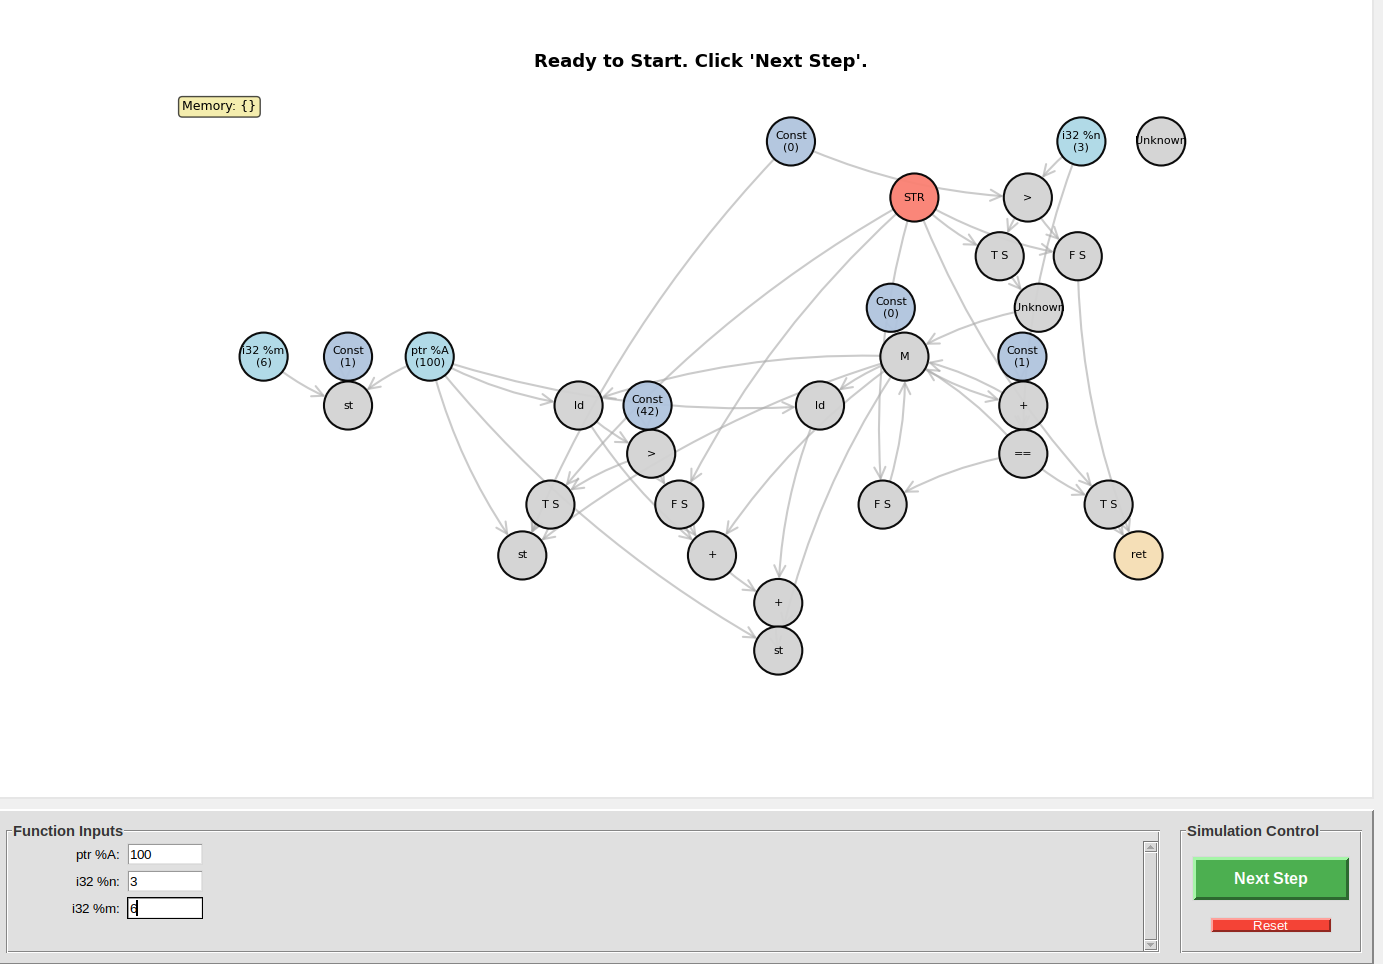
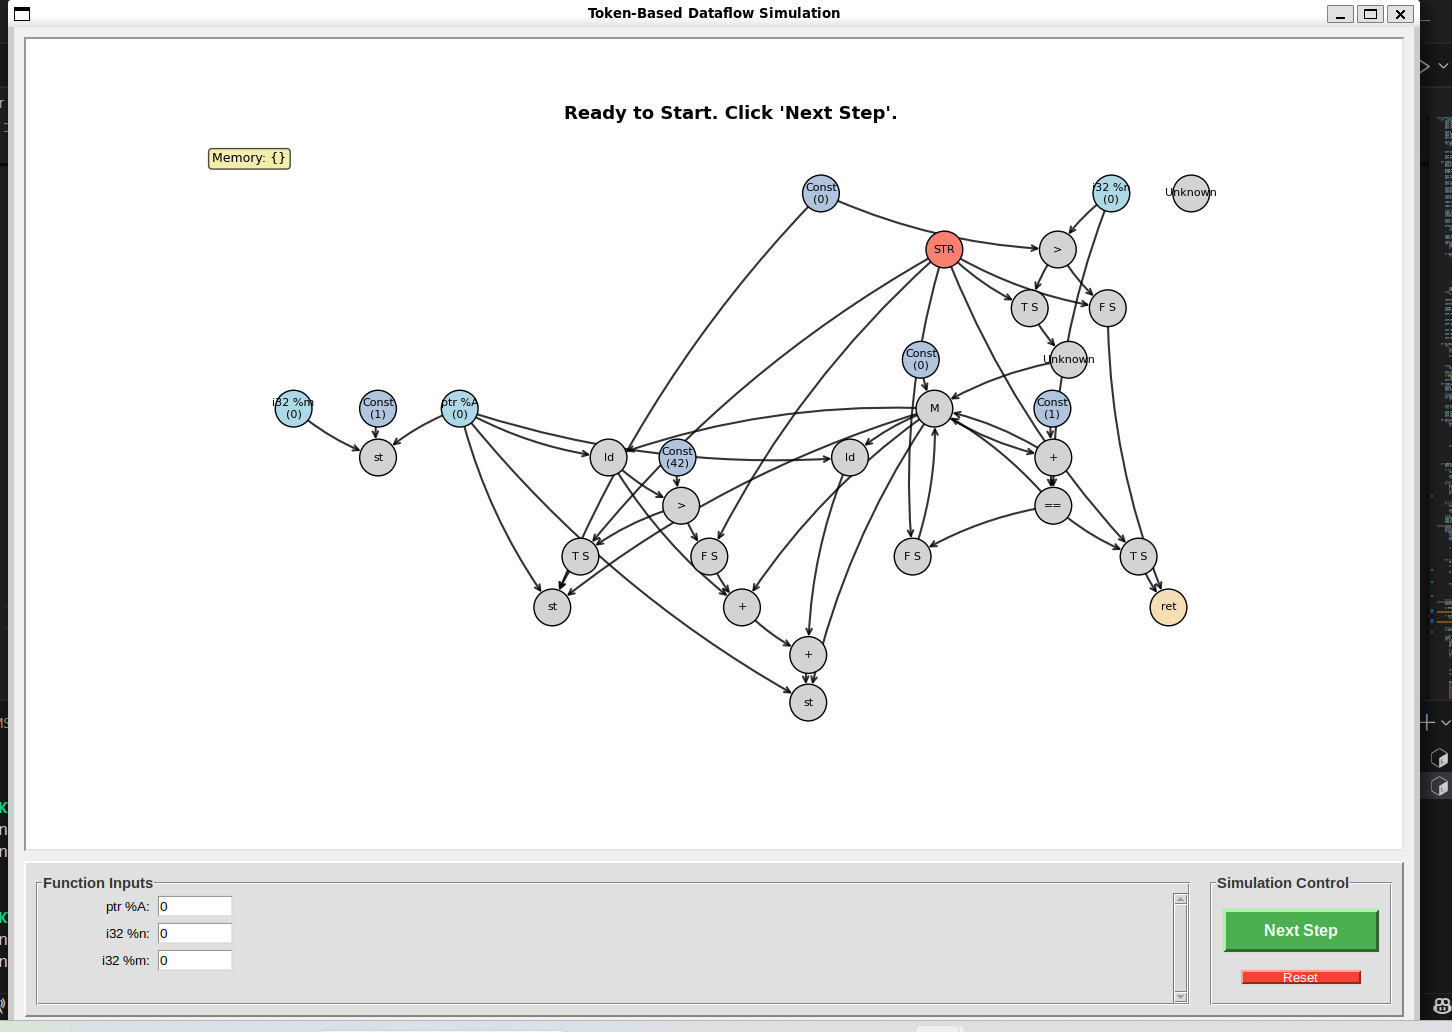
Aesthetic updates

diff --git a/visualizer/visualizer.py b/visualizer/visualizer.py
@@ -116,10 +116,15 @@ class TokenBasedExecutor:
     def can_execute(self, node):
         op_type = self.G.nodes[node].get('op', 'Unknown')
         
+        ## OLD
         # Source nodes can execute if they haven't produced their value yet in this run
-        if op_type in ['Constant', 'FunctionInput', 'Stream']:
-            return node not in self.node_values # Has this node already produced an output?
+        #if op_type in ['Constant', 'FunctionInput', 'Stream']:
+        #    return node not in self.node_values # Has this node already produced an output?
                                                 # Resetting simulation clears node_values.
+        ## NEW
+        # Source nodes can execute every step
+        if op_type in ['Constant', 'FunctionInput', 'Stream']:
+            return True 
 
         # For other nodes, check if enough tokens are available for their arity
         required_inputs = self.get_op_arity(node)
@@ -380,14 +385,14 @@ def read_graph(dot_path):
         return G
 
 
-# Enhanced layout with hierarchical option
+# Enhanced layout with dot option preferred
 def create_enhanced_layout(G, layout_type='dot'):
     if not G.nodes(): # Handle empty graph
         return {}
         
     if layout_type == 'dot':
         try:
-            return nx.drawing.nx_pydot.graphviz_layout(G, prog='dot')
+            return nx.drawing.nx_pydot.graphviz_layout(G, prog='dot') 
         except Exception as e: # Broader exception for any pydot/graphviz issue
             messagebox.showwarning("Layout Error", f"Graphviz 'dot' layout failed: {e}\n"
                                                   "Ensure Graphviz is installed and in PATH, and 'pydot' or 'pygraphviz' Python package is installed.\n"
@@ -604,7 +609,7 @@ class DataflowSimulator:
             # For simplicity, let's try to use the 'dot' layout as a common good one.
             self.layout = create_enhanced_layout(self.G, 'dot') 
             if not self.layout and self.G.nodes(): # If still no layout, try spring
-                 self.layout = create_enhanced_layout(self.G, 'spring')
+                self.layout = create_enhanced_layout(self.G, 'spring')
 
 
         # If layout is still empty after trying, inform user and exit plotting.
@@ -641,38 +646,38 @@ class DataflowSimulator:
             
             if (self.executor.execution_sequence) and (n in (self.executor.execution_sequence[-1])['nodes']): # Nodes that just executed
                 node_colors.append('orange')
-                node_sizes.append(2000)
+                node_sizes.append(800)
             elif n in executed_nodes_in_seq: # Executed in a previous step
                 if op_type == 'Return' and self.executor.completed and self.executor.return_value is not None:
                     node_colors.append('gold')
                 else:
                     node_colors.append('lightgreen')
-                node_sizes.append(1700)
+                node_sizes.append(800)
             else: # Not yet executed
                 if op_type == 'Stream': node_colors.append('salmon')
                 elif op_type == 'FunctionInput': node_colors.append('lightblue')
                 elif op_type == 'Constant': node_colors.append('lightsteelblue')
                 elif op_type == 'Return': node_colors.append('wheat')
                 else: node_colors.append('lightgray')
-                node_sizes.append(1200)
+                node_sizes.append(700)
 
         # Draw edges
         all_edges = list(self.G.edges())
         inactive_edges = [e for e in all_edges if e not in active_edges]
 
         nx.draw_networkx_edges(self.G, self.layout, ax=self.ax, edgelist=inactive_edges,
-                               arrowstyle='->', node_size=node_sizes, arrowsize=20,
-                               edge_color='darkgray', width=1.5, alpha=0.6,
+                               arrowstyle='->', node_size=node_sizes, arrowsize=10,
+                               edge_color='black', width=1.5, alpha=0.8,
                                connectionstyle='arc3,rad=0.1')
         if active_edges:
             nx.draw_networkx_edges(self.G, self.layout, ax=self.ax, edgelist=active_edges,
-                                   arrowstyle='->', node_size=node_sizes, arrowsize=25, # Larger arrow for active
-                                   edge_color='red', width=2.5, alpha=1.0, # Highlight active edge
+                                   arrowstyle='->', node_size=node_sizes, arrowsize=10,
+                                   edge_color='red', width=1.5, alpha=1.0, # Highlight active edge
                                    connectionstyle='arc3,rad=0.1')
         
         # Draw nodes
         nx.draw_networkx_nodes(self.G, self.layout, node_color=node_colors, node_size=node_sizes,
-                               ax=self.ax, linewidths=1.5, edgecolors='black', alpha=0.95)
+                               ax=self.ax, edgecolors='black')
         
         # Labels
         labels = {}

diff --git a/visualizer/README.md b/visualizer/README.md
@@ -10,3 +10,8 @@ python3 visualizer.py
 
 #### Window:
 ![Alt text](./example.png)
+
+
+#### TODO:
+ * Increase spacing between some nodes
+ * Add a scrollable text display logging feature on the screen under memory to display every op and its result
